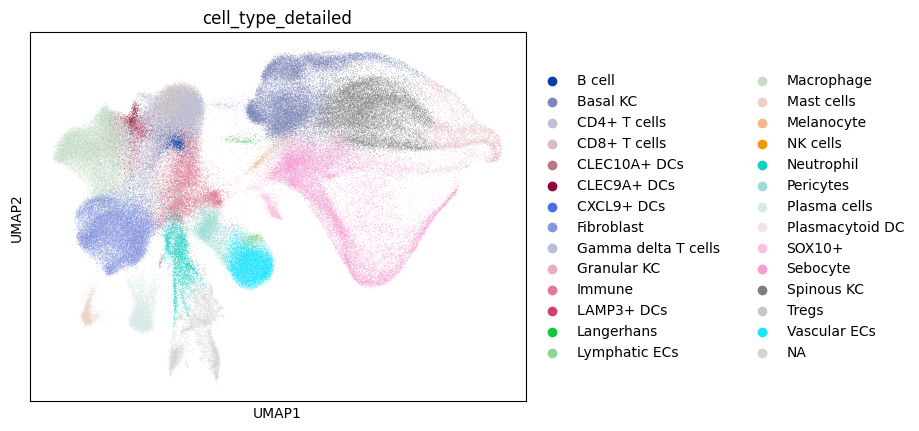
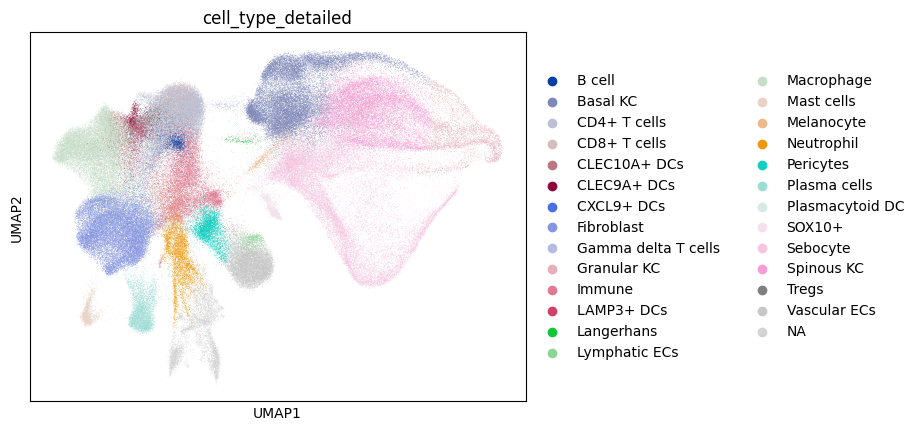
update 3/25/26

diff --git a/utils/plotting.py b/utils/plotting.py
@@ -218,7 +218,7 @@ def feature_plots_from_marker_genes(adata, marker_genes_dict, save=False, prefix
         plt.show()
 
 
-def plot_proportions(adata, groupby, ct_col, palette=None, save=False, figsize=None, title='default'):
+def plot_proportions_bar(adata, groupby, ct_col, palette=None, save=False, figsize=None, title='default'):
     proportions = adata.obs[[groupby,ct_col]].groupby(groupby, observed=True).value_counts(normalize=True).unstack()
     if palette is None:
         try:
@@ -234,7 +234,52 @@ def plot_proportions(adata, groupby, ct_col, palette=None, save=False, figsize=N
         plt.title(title)
     
     if save == True:
-        plt.savefig(f"./figures/proportions/{ct_col}_by_{groupby}.png", bbox_inches="tight")
+        plt.savefig(f"./figures/proportions/{ct_col}_by_{groupby}_bar.png", bbox_inches="tight")
+    elif isinstance(save, str):
+        plt.savefig(f"./figures/proportions/{save}.png", bbox_inches="tight")
+    plt.show()
+
+
+def plot_proportions_line(adata, groupby, ct_col, order=None, palette=None, save=False, figsize=None, title='default'):
+    proportions = adata.obs[[groupby,ct_col]].groupby(groupby, observed=True).value_counts(normalize=True).unstack()
+
+    # Ensure the x-tick order
+    if order is None:
+        x_ticks = list(proportions.index)
+    else:   
+        x_ticks = order
+    x_pos = range(len(x_ticks))
+
+    fig, ax = plt.subplots(figsize=figsize)
+
+    for cell_type in proportions.columns:
+        y = [proportions.loc[idx, cell_type] if idx in proportions.index else np.nan for idx in x_ticks]
+        
+        if palette is None:
+            try:
+                groups = adata.obs[ct_col].cat.categories
+                colors = adata.uns[f'{ct_col}_colors']
+                palette = dict(zip(groups, colors))
+                ax.plot(x_pos, y, marker='o', label=cell_type, color=palette[cell_type])
+            except:
+                ax.plot(x_pos, y, marker='o', label=cell_type)
+        else:
+            ax.plot(x_pos, y, marker='o', label=cell_type, color=palette[cell_type])
+
+    ax.set_xticks(x_pos)
+    ax.set_xticklabels(x_ticks)
+    ax.set_ylabel('Proportion')
+
+    if title == 'default':
+        plt.title(f"{ct_col} proportions by {groupby}")
+    else:
+        plt.title(title)
+
+    ax.legend(bbox_to_anchor=(1.05, 1), loc='upper left')
+    plt.tight_layout()
+
+    if save == True:
+        plt.savefig(f"./figures/proportions/{ct_col}_by_{groupby}_line.png", bbox_inches="tight")
     elif isinstance(save, str):
         plt.savefig(f"./figures/proportions/{save}.png", bbox_inches="tight")
     plt.show()